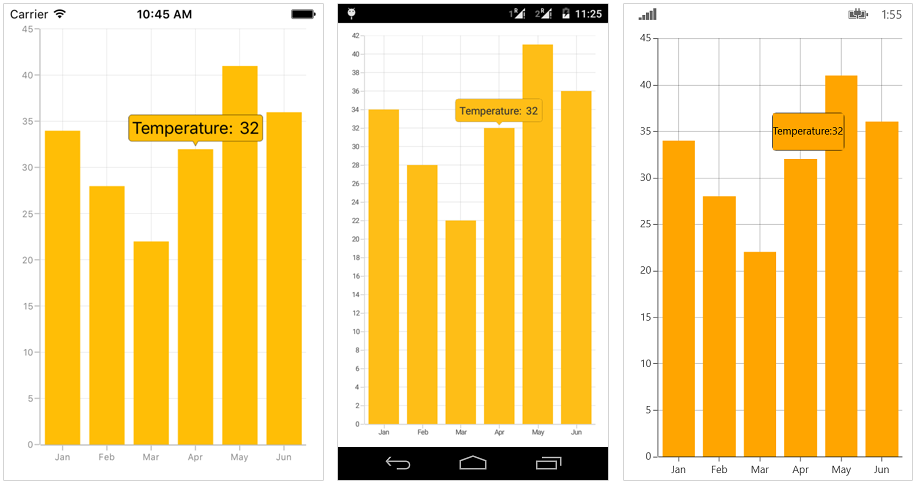
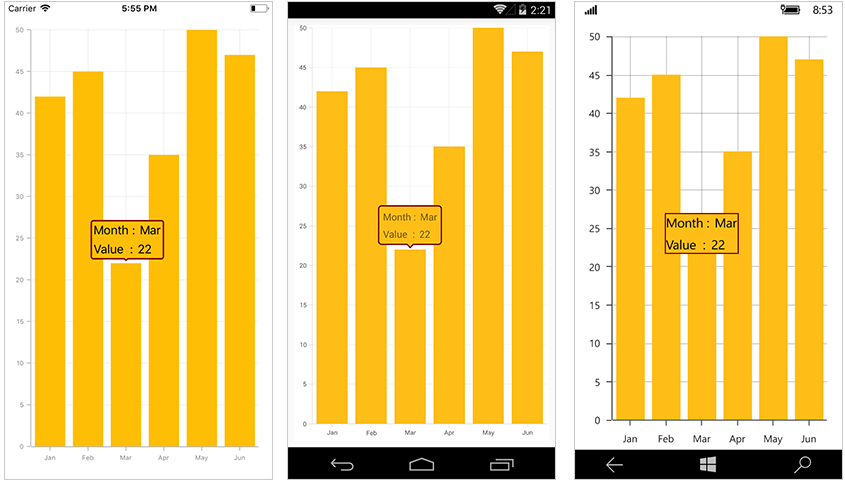
Code changed for tooltip template

diff --git a/Xamarin/SfChart/tooltip.md b/Xamarin/SfChart/tooltip.md
@@ -102,41 +102,68 @@ You can customize the appearance of the tooltip with your own template by using 
 
 {% highlight xaml %}
 
-<chart:ColumnSeries ItemsSource="{Binding ColumnData}" EnableTooltip="true" 
-XBindingPath="Month" YBindingPath="Value" >
-              <chart:ColumnSeries.TooltipTemplate>
-                  <DataTemplate>
-                      <StackLayout Orientation="Horizontal">
-                              <Label Text="Temperature:" />
-                              <Label Text="{Binding Value}"/>
-                      </StackLayout>
-                  </DataTemplate>
-              </chart:ColumnSeries.TooltipTemplate>
+<chart:ColumnSeries ItemsSource="{Binding Data}" XBindingPath="Month" YBindingPath="Value" EnableTooltip="True">
+                    <chart:ColumnSeries.TooltipTemplate>
+                        <DataTemplate>
+                            <StackLayout Orientation="Vertical">
+                                <StackLayout Orientation="Horizontal">
+                                    <Label Text="Month :" />
+                                    <Label Text="{Binding Month}"/>
+                                </StackLayout>
+                                <StackLayout Orientation="Horizontal">
+                                    <Label Text="Value   :" />
+                                    <Label Text="{Binding Value}"/>
+                                </StackLayout>
+                            </StackLayout>
+                        </DataTemplate>
+                    </chart:ColumnSeries.TooltipTemplate>
 </chart:ColumnSeries>
+<chart:SfChart.ChartBehaviors>
+   <chart:ChartTooltipBehavior BorderWidth="3" BorderColor="Maroon"/>
+</chart:SfChart.ChartBehaviors>
+
 
 
 {% endhighlight %}
 
 {% highlight c# %}
 
-ColumnSeries column = new ColumnSeries (); 
-column.ItemsSource = viewModel.ColumnData;
-column.XBindingPath = "Month";
-column.YBindingPath = "Value";
-column.EnableTooltip = true;
+ColumnSeries column = new ColumnSeries();
+column.ItemsSource = viewModel.Data;
+column.XBindingPath = "Month";
+column.YBindingPath = "Value";
+column.EnableTooltip = true;
 
-DataTemplate template = new DataTemplate (() => {
-StackLayout stack = new StackLayout(){ Orientation = StackOrientation.Horizontal};
-Label label = new Label(){Text="Temperature:"};
-Label yValue = new Label();
-yValue.SetBinding (Label.TextProperty, "Value");
-stack.Children.Add(label);
-stack.Children.Add(yValue);
-return stack;
+ChartTooltipBehavior tooltip = new ChartTooltipBehavior();
+tooltip.BorderColor = Color.Maroon;
+tooltip.BorderWidth = 3 ;
+chart.ChartBehaviors.Add(tooltip);
+
+DataTemplate template = new DataTemplate(() =>
+{
+StackLayout stack = new StackLayout() { Orientation = StackOrientation.Vertical };
+StackLayout first = new StackLayout() { Orientation = StackOrientation.Horizontal };
+Label label = new Label() { Text = "Month:" };
+Label xValue = new Label();
+xValue.SetBinding(Label.TextProperty, new Binding("Month"));
+first.Children.Add(label);
+first.Children.Add(xValue);
+
+StackLayout second = new StackLayout() { Orientation = StackOrientation.Horizontal };
+Label label1 = new Label() { Text = "Value:" };
+Label yValue = new Label();
+yValue.SetBinding(Label.TextProperty, "Value");
+second.Children.Add(label1);
+second.Children.Add(yValue);
+
+stack.Children.Add(first);
+stack.Children.Add(second);
+return stack;
 });
 
-column.TooltipTemplate = template;
-Chart.Series.Add (column);
+column.TooltipTemplate = template;
+chart.Series.Add(column);
+
 
 {% endhighlight %}
 
